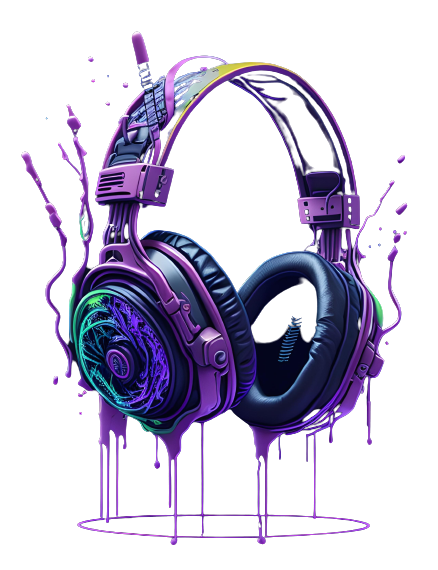
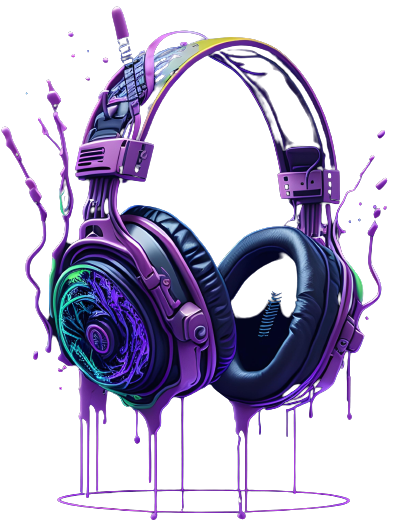
styled and changes the image

diff --git a/style.css b/style.css
@@ -114,13 +114,19 @@ nav li a{
     align-items: flex-start;
     justify-content: start;
     flex-direction: column;
-    row-gap: 1.0rem;
+    row-gap: 0.7rem;
 }
 .discount_title{
     font-size: 1.2rem;
     font-weight: 400;
     color: #808080;
     letter-spacing: 0.15rem;
+}
+.title{
+    font-size: 1.5rem;
+    font-weight: 500;
+    color: #f1f1f1;
+    letter-spacing: 0.1rem;
 }
 
 

diff --git a/index.html b/index.html
@@ -49,7 +49,7 @@
             </div>
             <!-- Hero Image Section -->
             <div class="hero_img">
-                <img src="./img/headphone.png" alt="Headephone Image" class="img">
+                <img src="./img/headphone1.png" alt="Headephone Image" class="img">
             </div>
         </div>
     </div>
